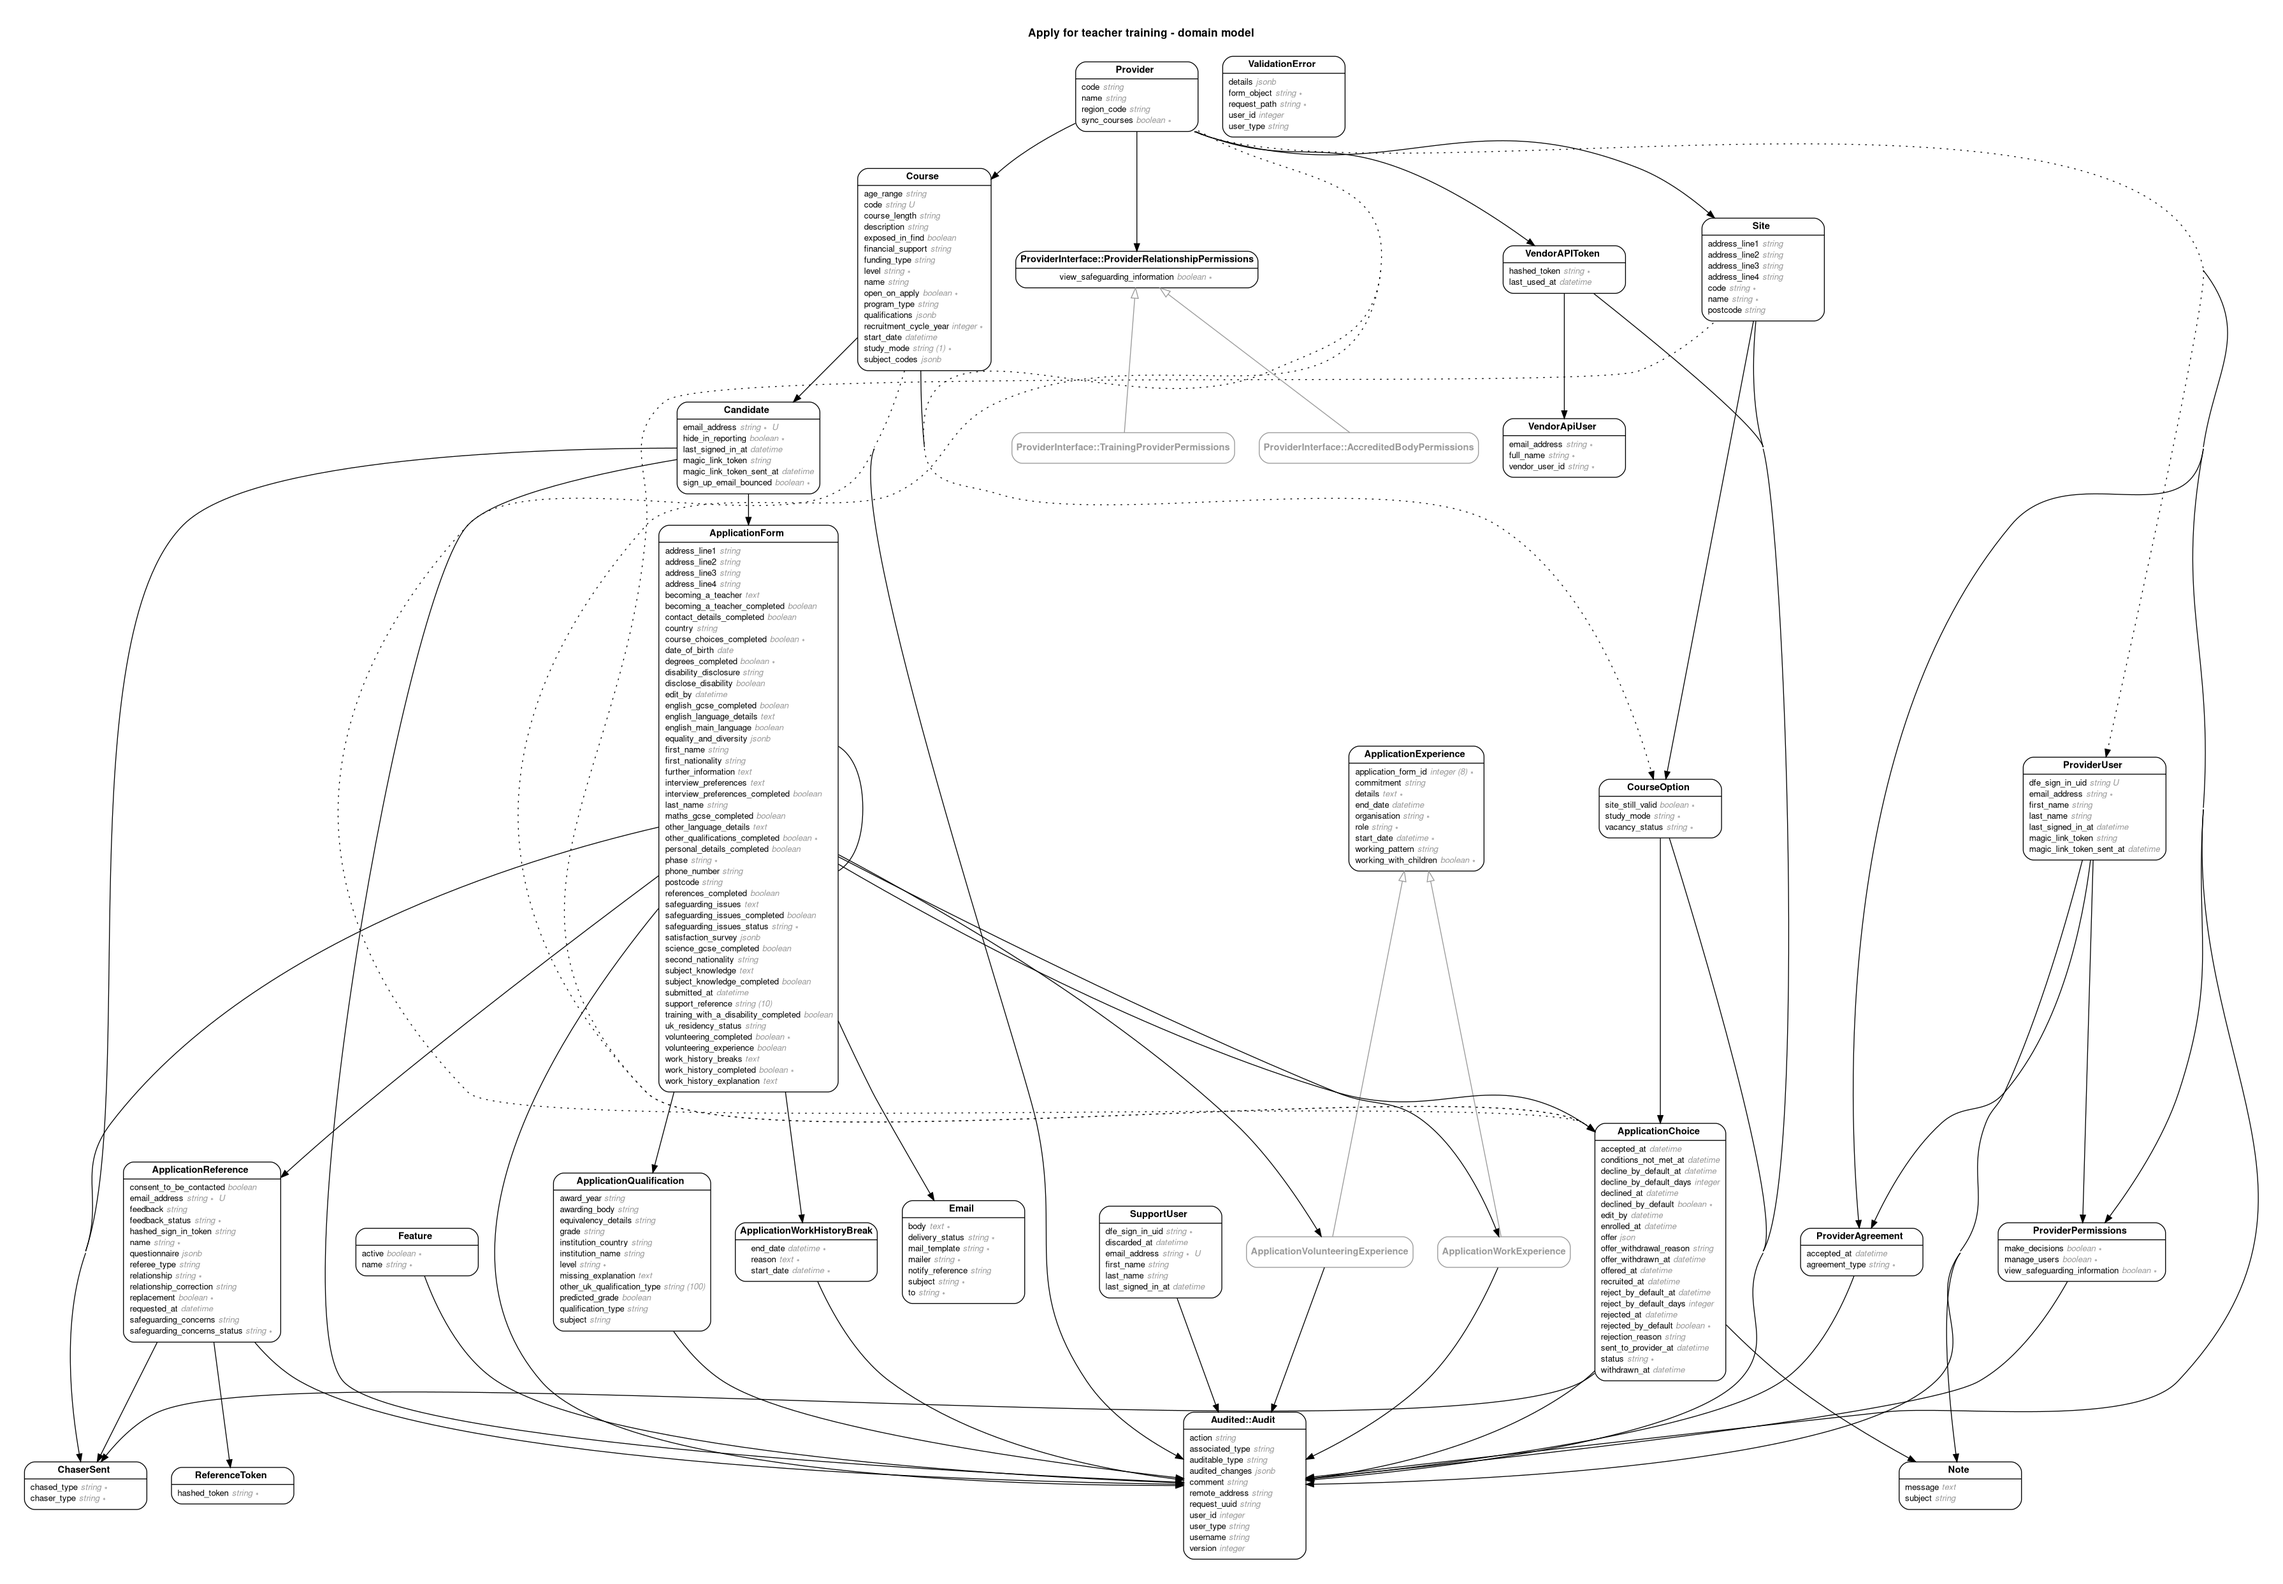
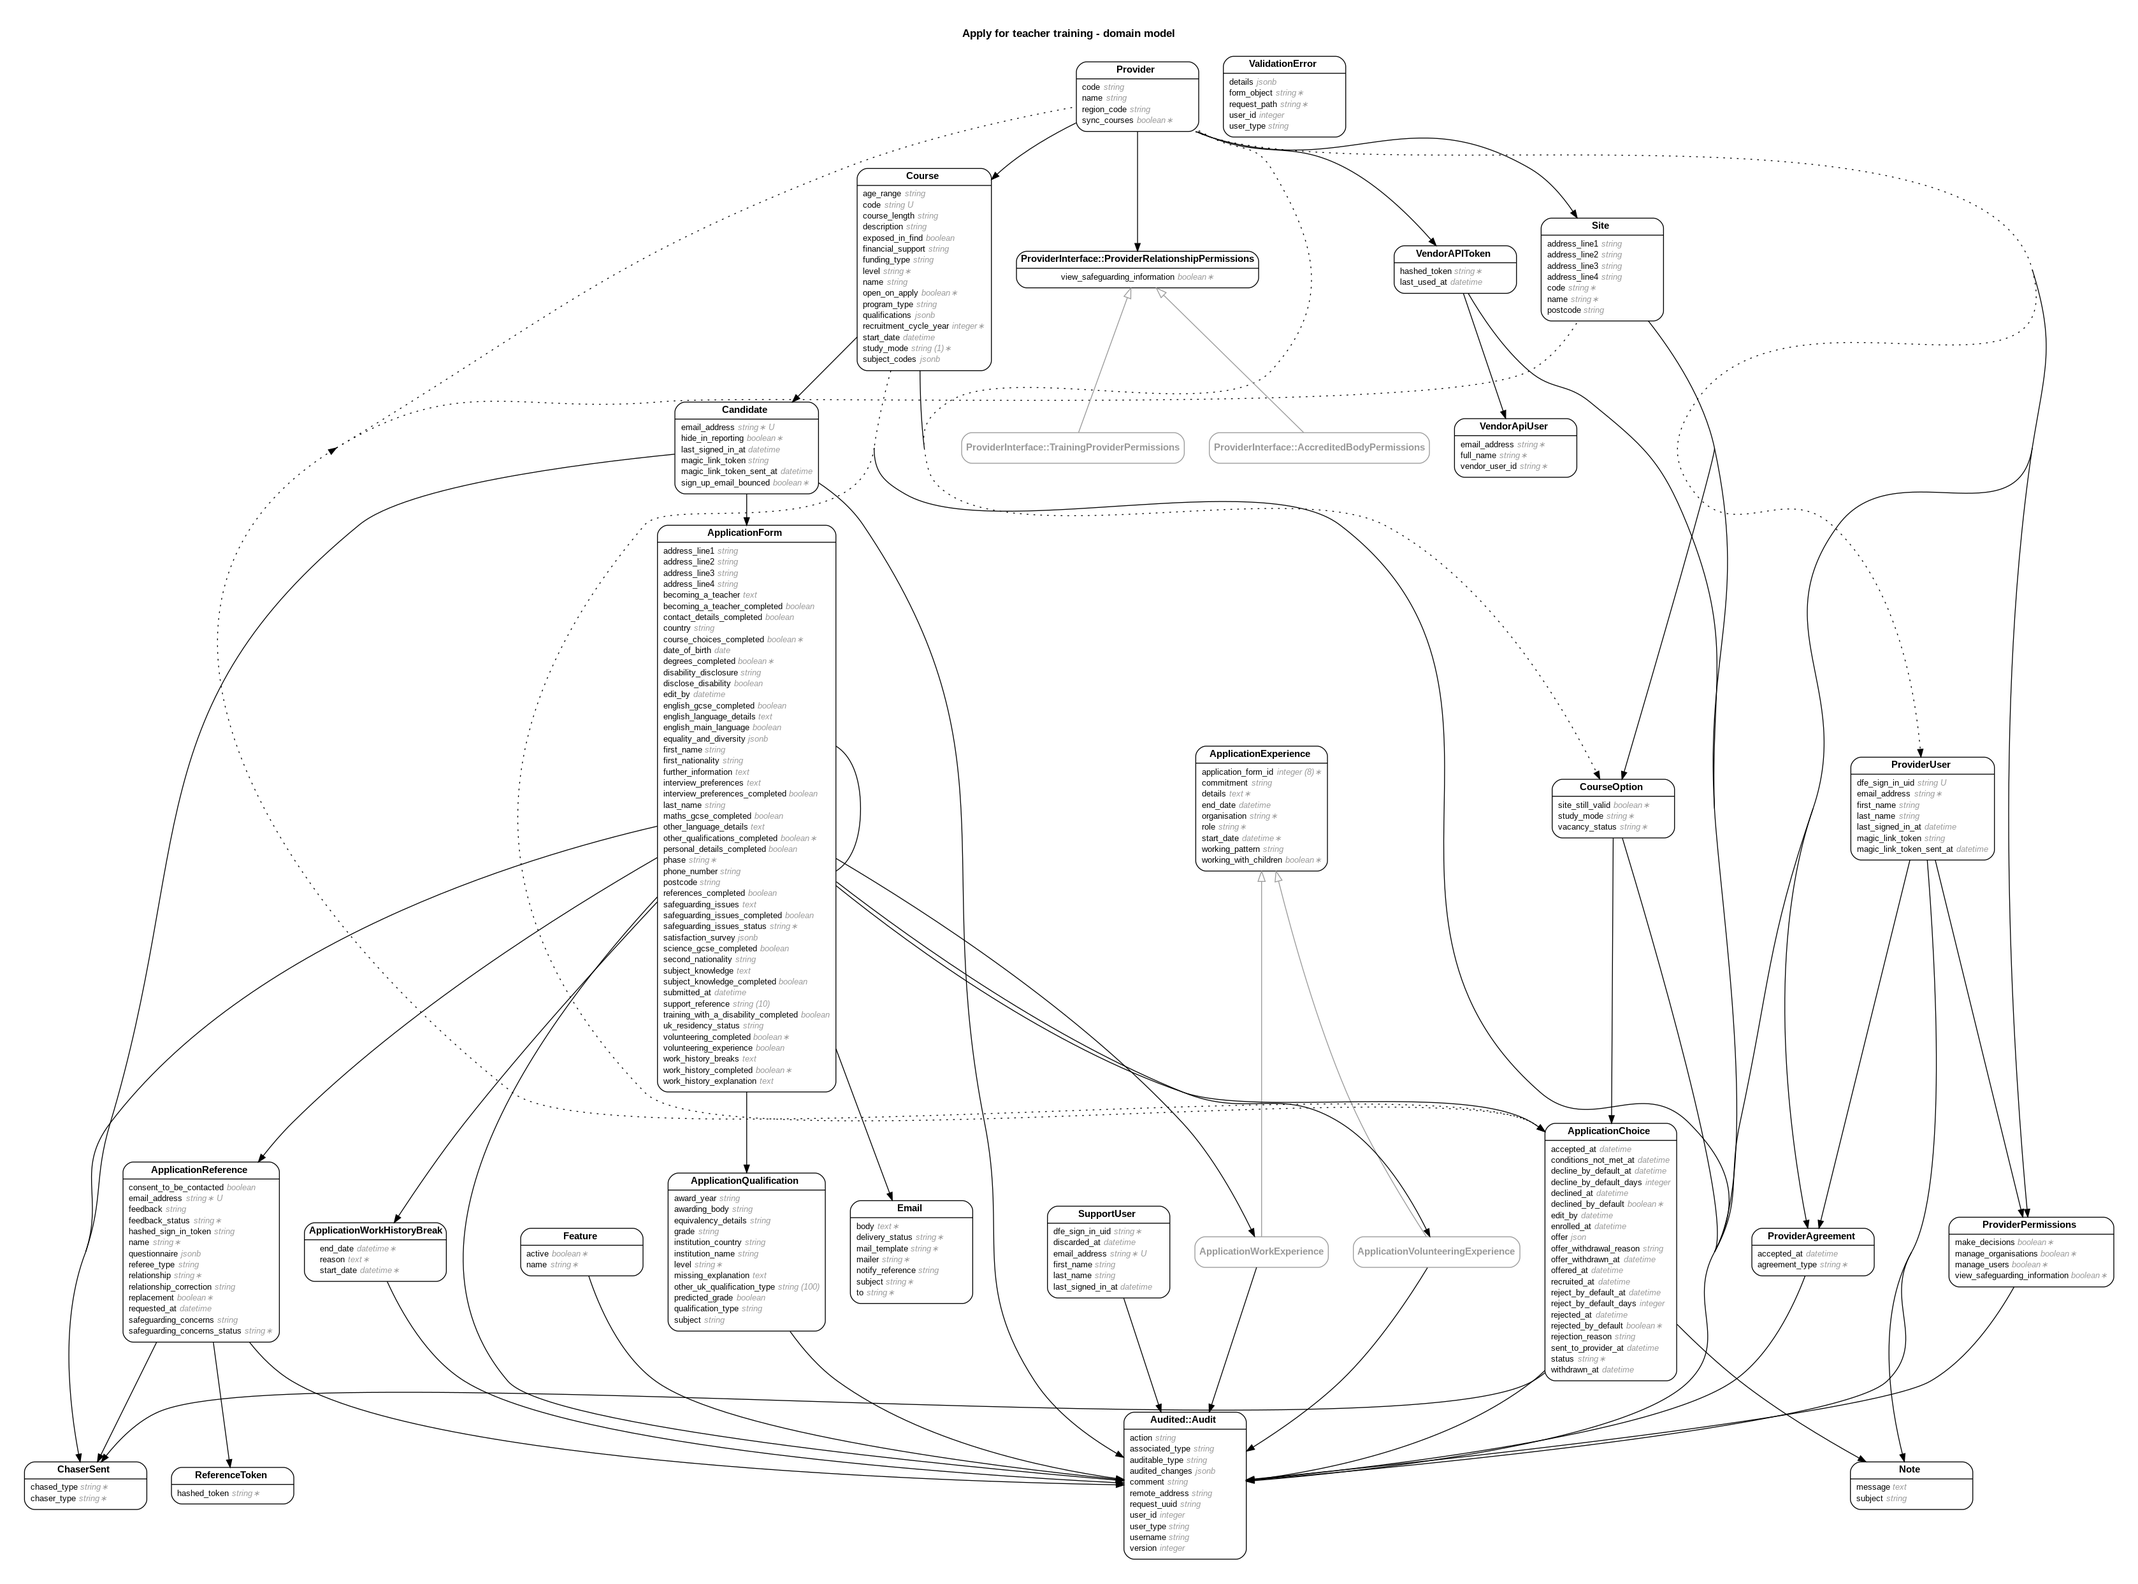
Add manage organisations permission
This user level permission will be assigned to users who can
set up provider to provider organisation level permissions.

diff --git a/db/schema.rb b/db/schema.rb
@@ -10,7 +10,7 @@
 #
 # It's strongly recommended that you check this file into your version control system.
 
-ActiveRecord::Schema.define(version: 2020_06_03_070420) do
+ActiveRecord::Schema.define(version: 2020_06_03_153852) do
 
   # These are extensions that must be enabled in order to support this database
   enable_extension "pgcrypto"
@@ -310,6 +310,7 @@ ActiveRecord::Schema.define(version: 2020_06_03_070420) do
     t.boolean "manage_users", default: false, null: false
     t.boolean "view_safeguarding_information", default: false, null: false
     t.boolean "make_decisions", default: false, null: false
+    t.boolean "manage_organisations", default: false, null: false
     t.index ["provider_id", "provider_user_id"], name: "index_provider_users_providers_by_provider_and_provider_user", unique: true
     t.index ["provider_id"], name: "index_provider_users_providers_on_provider_id"
     t.index ["provider_user_id"], name: "index_provider_users_providers_on_provider_user_id"

diff --git a/db/migrate/20200603153852_add_manage_organisations_permission.rb b/db/migrate/20200603153852_add_manage_organisations_permission.rb
@@ -1,0 +1,5 @@
+class AddManageOrganisationsPermission < ActiveRecord::Migration[6.0]
+  def change
+    add_column :provider_users_providers, :manage_organisations, :boolean, default: false, null: false
+  end
+end
